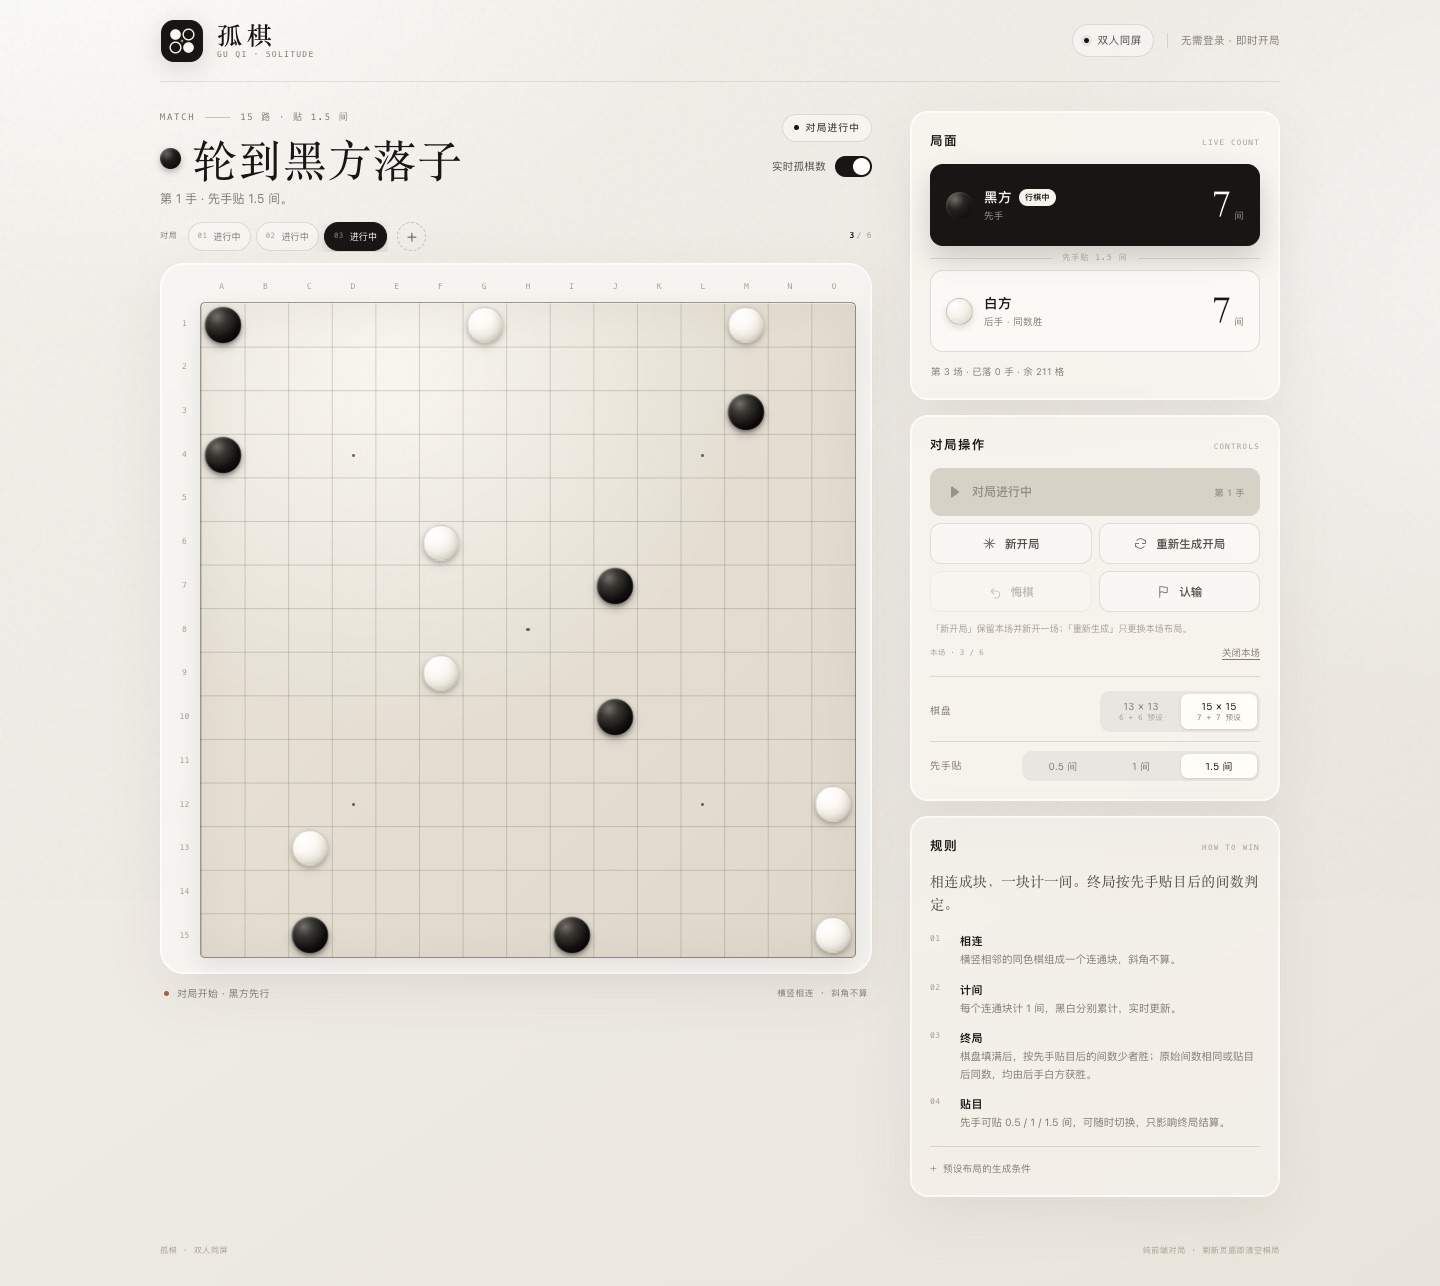
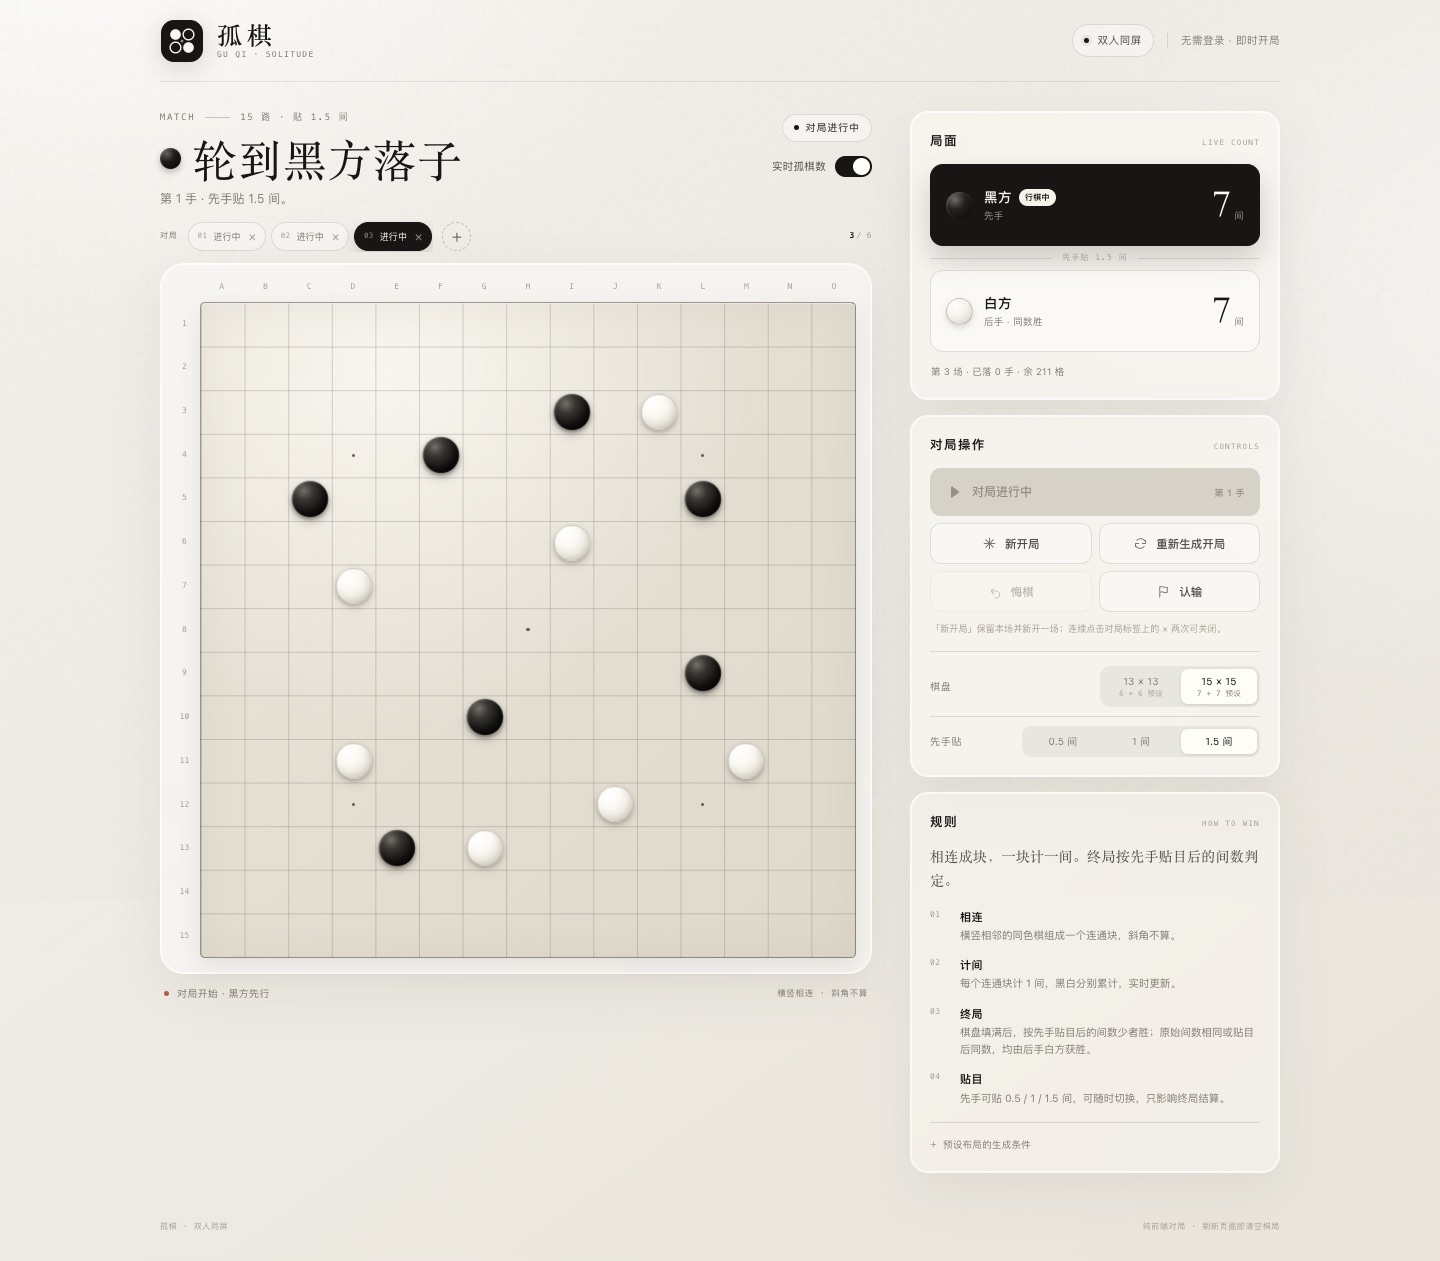
feat: generate more even preset layouts

diff --git a/site/game.js b/site/game.js
@@ -92,13 +92,14 @@ function shuffled(items, rng) {
   return result;
 }
 
-function cellsInQuadrants(size) {
+function cellsInQuadrants(size, edgeMargin = 1) {
   const center = (size - 1) / 2;
   const quadrants = [[], [], [], []];
   const all = [];
 
   for (let row = 0; row < size; row += 1) {
     for (let col = 0; col < size; col += 1) {
+      if (Math.min(row, col, size - 1 - row, size - 1 - col) < edgeMargin) continue;
       const quadrant = quadrantOf(row, col, size);
       if (quadrant === -1 || isCenterZone(row, col, size)) continue;
       const index = indexOf(row, col, size);
@@ -110,25 +111,11 @@ function cellsInQuadrants(size) {
   return { quadrants, all, center };
 }
 
-/**
- * 随机生成中心对称的预设布局。
- *
- * 同时满足：
- *  1. 任意黑子 (r,c) 的对称点 (N-1-r,N-1-c) 必为白子；
- *  2. 四个象限内，黑白双方都至少各有一子（等价于黑子遍布四象限）；
- *  3. 任意两子切比雪夫距离 >= 2；
- *  4. 中心 3×3 区域无预设子。
- */
-export function generateLayout(size, rng = Math.random) {
-  if (!PRESET_COUNT[size]) {
-    throw new Error(`Unsupported board size: ${size}`);
-  }
-
+function buildCandidate(size, rng, edgeMargin = 1) {
   const stonePairs = PRESET_COUNT[size];
-  const { quadrants, all, center } = cellsInQuadrants(size);
-  const maxAttempts = 600;
+  const { quadrants, all, center } = cellsInQuadrants(size, edgeMargin);
 
-  for (let attempt = 0; attempt < maxAttempts; attempt += 1) {
+  for (let attempt = 0; attempt < 140; attempt += 1) {
     const stones = [];
     const black = [];
 
@@ -195,7 +182,119 @@ export function generateLayout(size, rng = Math.random) {
     };
   }
 
-  throw new Error('Could not generate a valid preset layout');
+  return null;
+}
+
+/**
+ * 布局均匀度评分：越小越好。
+ * 通过大量候选之间择优，减少边角子、近距对子和同色扎堆。
+ */
+function layoutScore(layout, size) {
+  const stones = [];
+  for (let index = 0; index < layout.board.length; index += 1) {
+    if (layout.board[index] === EMPTY) continue;
+    stones.push({
+      index,
+      color: layout.board[index],
+      row: rowOf(index, size),
+      col: colOf(index, size),
+    });
+  }
+
+  let score = 0;
+  for (let a = 0; a < stones.length; a += 1) {
+    const one = stones[a];
+    for (let b = a + 1; b < stones.length; b += 1) {
+      const two = stones[b];
+      const distance = Math.max(Math.abs(one.row - two.row), Math.abs(one.col - two.col));
+      const sameColor = one.color === two.color;
+      if (distance === 2) {
+        score += 110 + (sameColor ? 85 : 0);
+      } else if (distance === 3) {
+        score += 8 + (sameColor ? 22 : 0);
+      } else if (distance === 4 && sameColor) {
+        score += 4;
+      }
+    }
+  }
+
+  for (const stone of stones) {
+    const edge = Math.min(stone.row, stone.col, size - 1 - stone.row, size - 1 - stone.col);
+    if (edge === 1) score += 1000;
+    else if (edge === 2) score += 70;
+  }
+
+  const quadrants = [0, 0, 0, 0];
+  for (const stone of stones) {
+    quadrants[quadrantOf(stone.row, stone.col, size)] += 1;
+  }
+  const target = stones.length / 4;
+  for (const total of quadrants) score += Math.abs(total - target) * 24;
+
+  // 行、列方向的分布也尽量均匀，避免某一带堆积。
+  const rows = new Array(size).fill(0);
+  const cols = new Array(size).fill(0);
+  for (const stone of stones) {
+    rows[stone.row] += 1;
+    cols[stone.col] += 1;
+  }
+  for (const count of rows) score += count * count * 14;
+  for (const count of cols) score += count * count * 14;
+
+  return score;
+}
+
+/**
+ * 随机生成中心对称的预设布局。
+ *
+ * 硬性条件：
+ *  1. 任意黑子 (r,c) 的对称点 (N-1-r,N-1-c) 必为白子；
+ *  2. 四个象限内，黑白双方都至少各有一子；
+ *  3. 任意两子切比雪夫距离 >= 2；
+ *  4. 中心 3×3 区域无预设子；
+ *  5. 最外侧两圈不放预设子（边缘距离至少为 2）。
+ *
+ * 软性偏好：生成多组候选并择优，尽量拉开距离、均衡四象限并远离边缘。
+ */
+export function generateLayout(size, rng = Math.random) {
+  if (!PRESET_COUNT[size]) {
+    throw new Error(`Unsupported board size: ${size}`);
+  }
+
+  const candidateCount = 240;
+  const candidates = [];
+  for (let attempt = 0; attempt < candidateCount * 2 && candidates.length < candidateCount; attempt += 1) {
+    const candidate = buildCandidate(size, rng, 2);
+    if (candidate) {
+      candidates.push({ ...candidate, score: layoutScore(candidate, size) });
+    }
+  }
+
+  // 极端情况下逐级放宽边缘限制，仍保留其他硬性规则。
+  for (const margin of [1, 0]) {
+    if (candidates.length > 0) break;
+    for (let attempt = 0; attempt < candidateCount && candidates.length === 0; attempt += 1) {
+      const candidate = buildCandidate(size, rng, margin);
+      if (candidate) {
+        candidates.push({ ...candidate, score: layoutScore(candidate, size) });
+      }
+    }
+  }
+
+  if (candidates.length === 0) {
+    throw new Error('Could not generate a valid preset layout');
+  }
+
+  candidates.sort((a, b) => a.score - b.score);
+  const poolSize = Math.max(1, Math.ceil(candidates.length * 0.05));
+  const chosen = candidates[Math.floor(rng() * poolSize)];
+
+  return {
+    board: chosen.board,
+    black: chosen.black,
+    white: chosen.white,
+    center: chosen.center,
+  };
 }
 
 export function startGame(game) {

diff --git a/site/index.html b/site/index.html
@@ -233,8 +233,9 @@
           <summary>预设布局的生成条件</summary>
           <ul>
             <li>黑白整体中心对称，且四象限内双方均有棋子。</li>
-            <li>任意两子切比雪夫距离不小于 2。</li>
+            <li>任意两子切比雪夫距离不小于 2，且最外两圈不放预设子。</li>
             <li>棋盘中心 3 × 3 区域保持为空。</li>
+            <li>多组随机候选择优，尽量让棋子分布均匀、减少同色扎堆。</li>
             <li>13 路各 6 子，15 路各 7 子，每局随机生成。</li>
           </ul>
         </details>

diff --git a/README.md b/README.md
@@ -45,7 +45,7 @@ npm test
 
 测试覆盖：
 
-- 13 路 / 15 路预设布局的中心对称、四象限分布、切比雪夫距离、中心 3×3 为空；
+- 13 路 / 15 路预设布局的中心对称、四象限分布、切比雪夫距离、中心 3×3 为空、远离边缘；
 - 横竖连通块计数与斜角不连通；
 - 三种先手贴目规则、原始同数与贴目同数的裁定；
 - 每场对局独立保存贴目，终局后切换规则可重新裁定；
@@ -56,7 +56,7 @@ npm test
 ## 规则
 
 1. 13×13 双方各 6 枚预设子；15×15 双方各 7 枚预设子。
-2. 预设布局每局随机生成：黑白中心对称、四象限双方均有子、任意两子切比雪夫距离 ≥ 2、中心 3×3 为空。
+2. 预设布局每局随机生成：黑白中心对称、四象限双方均有子、任意两子切比雪夫距离 ≥ 2、中心 3×3 为空；最外两圈不放预设子，并会在多组候选中择优，让棋子分布更均匀、减少同色扎堆。
 3. 黑方先行，双方轮流在空格落子。
 4. 横竖相邻的同色棋组成一个连通块，每个连通块计 **1 间**；斜角不算。
 5. 终局按「黑方原始间数 + 先手贴目」与「白方原始间数」比较，少者获胜。
